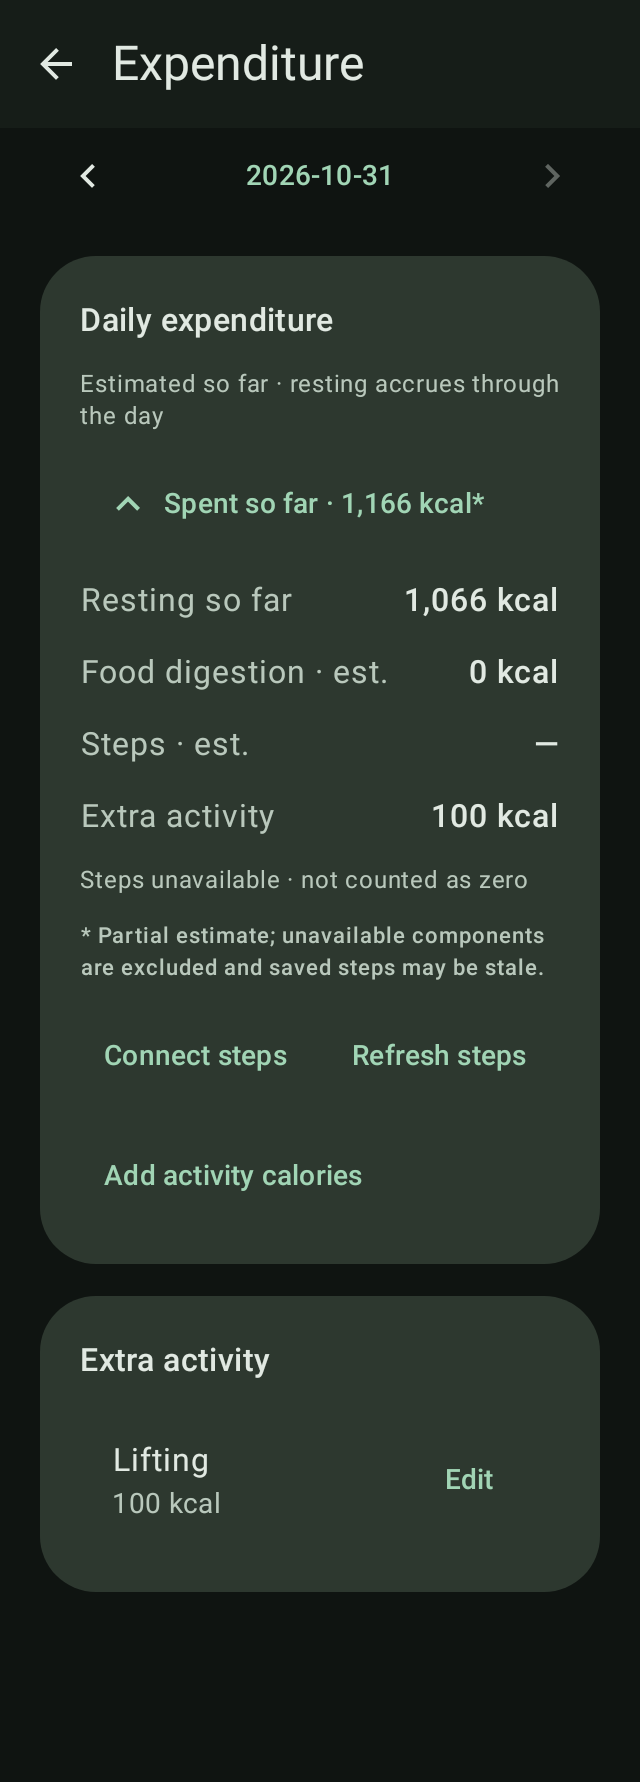
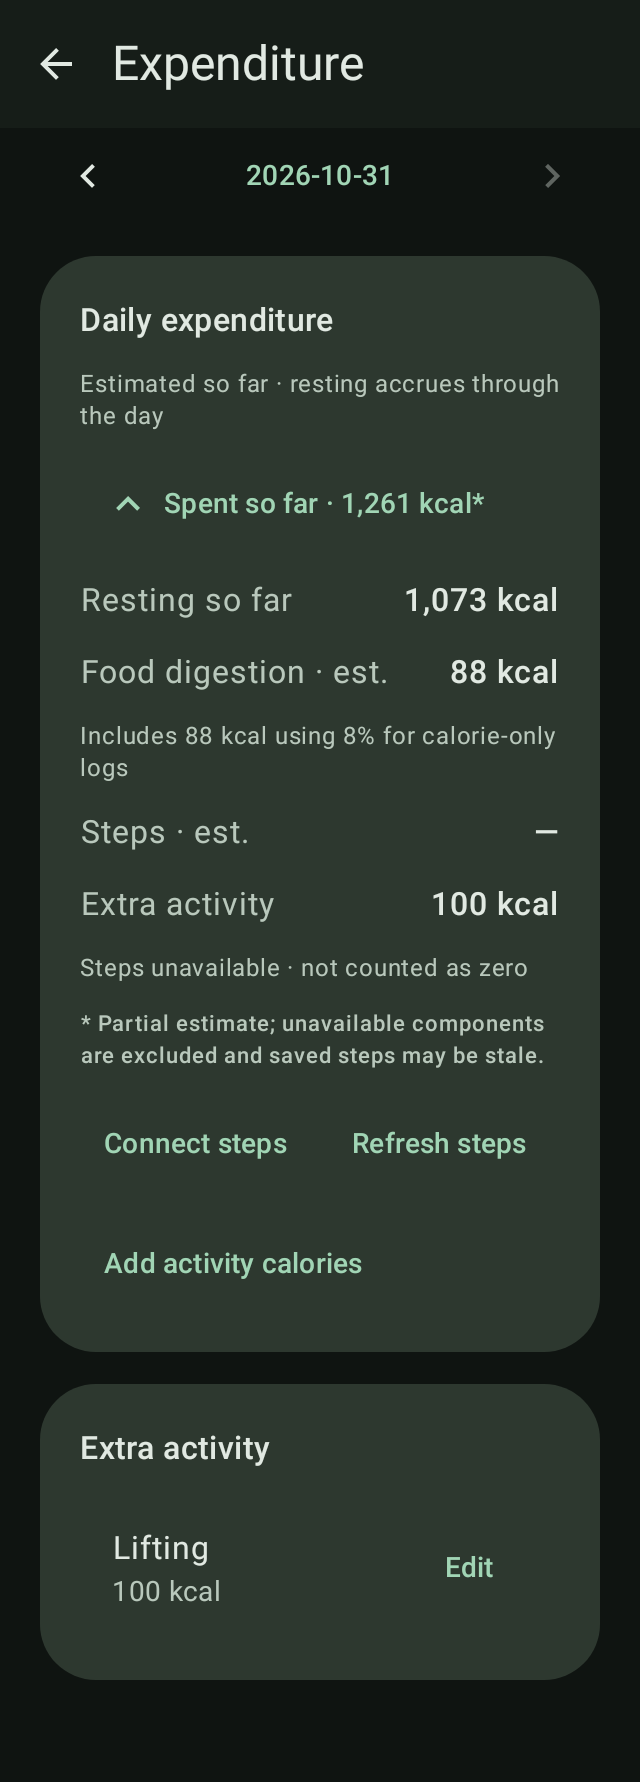
Use eight-percent digestion estimate for calorie-only logs
Apply the fallback per calorie-only entry, separately from macro-based TEF. Keep unknown nutrition unknown and label the fallback in the expenditure breakdown. Preserve food calories and known-macro calculations, including label-rounding mismatches. Verify edits, backdating and deletion recalculate without duplicate charges; all 103 tests, lint and APK checks pass.

diff --git a/app/src/test/java/dev/rohit/labelaudit/ExpenditureIntegrationTest.kt b/app/src/test/java/dev/rohit/labelaudit/ExpenditureIntegrationTest.kt
@@ -245,6 +245,63 @@ class ExpenditureIntegrationTest {
     }
 
     @Test
+    fun quickCaloriesUseEightPercentAndEditsMoveOrRemoveOnlyTheirFallback() {
+        val food =
+            JSONObject()
+                .put("id", "food")
+                .put("name", "Label rounding example")
+                .put("unit", "g")
+                .put("basis", 100)
+                .put("kcal", 15)
+                .put("protein", 4)
+                .put("carbs", 0)
+                .put("fat", 0)
+        val direct =
+            JSONObject()
+                .put("id", "direct")
+                .put("name", "Known macros")
+                .put("available", time(day, 9))
+                .put("completed", time(day, 9))
+                .put("share", 1)
+                .put(
+                    "ingredients",
+                    JSONArray().put(JSONObject().put("food", food).put("quantity", 100)),
+                )
+        r.db.save("direct", direct)
+        val quick = JSONObject().put("id", "quick").put("time", time(day, 10)).put("kcal", 1100)
+        r.db.save("calorie", quick)
+        val now = time(day, 12)
+        val first = r.dailyExpenditure(day, now)
+        assertEquals(88.0, first.fallbackDigestion, 1e-9)
+        assertEquals(92.0, first.digestion, 1e-9) // 4 from protein, 88 only from quick calories
+        assertFalse(first.nutritionIncomplete)
+        val intake = r.nutrientTotals(r.midnight(day), now, now)
+        assertEquals(1115.0, intake.values[0], 0.0)
+        assertEquals(4.0, intake.values[1], 0.0)
+        assertTrue(intake.missing[1]) // fallback never invents protein grams
+        r.db.save("calorie", quick.put("kcal", 2200))
+        assertEquals(180.0, r.dailyExpenditure(day, now).digestion, 1e-9)
+        r.db.save("calorie", quick.put("time", time(day.plusDays(1), 10)))
+        val later = time(day.plusDays(1), 12)
+        assertEquals(4.0, r.dailyExpenditure(day, later).digestion, 1e-9)
+        assertEquals(176.0, r.dailyExpenditure(day.plusDays(1), later).digestion, 1e-9)
+        r.db.delete(quick)
+        assertEquals(0.0, r.dailyExpenditure(day.plusDays(1), later).digestion, 0.0)
+        assertEquals(1, r.db.list("direct").size)
+        assertEquals(
+            15.0,
+            r.db
+                .list("direct")
+                .single()
+                .getJSONArray("ingredients")
+                .getJSONObject(0)
+                .getJSONObject("food")
+                .getDouble("kcal"),
+            0.0,
+        )
+    }
+
+    @Test
     fun versionThreeMigrationPreservesOldTotalRatesAndFood() {
         val context = ApplicationProvider.getApplicationContext<Context>()
         val oldDate = LocalDate.now(r.zone).minusDays(1)

diff --git a/app/src/test/java/dev/rohit/labelaudit/ComposeFlowTest.kt b/app/src/test/java/dev/rohit/labelaudit/ComposeFlowTest.kt
@@ -168,9 +168,19 @@ class ComposeFlowTest {
     fun expenditureActivityCanBeAddedEditedAndDeletedWithMaterialControls() {
         ui.runOnIdle {
             val v = androidx.lifecycle.ViewModelProvider(ui.activity)[TrackerViewModel::class.java]
+            v.repo.db.save(
+                "calorie",
+                org.json
+                    .JSONObject()
+                    .put("id", "quick-tef")
+                    .put("time", System.currentTimeMillis() - 60000)
+                    .put("kcal", 1100),
+            )
+            v.refresh()
             v.openEnergy()
         }
         ui.onNodeWithText("Resting so far").assertIsDisplayed()
+        ui.onNodeWithText("Includes 88 kcal using 8% for calorie-only logs").assertIsDisplayed()
         ui.onNodeWithText("Add activity calories").performScrollTo().performClick()
         ui.onNodeWithText("Additional kcal").performTextInput("100")
         ui.onNodeWithText("Description (optional)").performTextInput("Lifting")

diff --git a/app/src/main/java/dev/rohit/labelaudit/ui/ExpenditureScreen.kt b/app/src/main/java/dev/rohit/labelaudit/ui/ExpenditureScreen.kt
@@ -45,6 +45,12 @@ fun ExpenditureBreakdown(
                 if (e.nutritionIncomplete && e.digestion == 0.0) "—"
                 else "${if(e.nutritionIncomplete) "≥" else ""}${kcal(e.digestion)} kcal",
             )
+            if (e.fallbackDigestion > 0)
+                Text(
+                    "Includes ${kcal(e.fallbackDigestion)} kcal using 8% for calorie-only logs",
+                    style = MaterialTheme.typography.bodySmall,
+                    color = MaterialTheme.colorScheme.onSurfaceVariant,
+                )
             InfoRow("Steps · est.", e.steps?.let { "${kcal(it)} kcal" } ?: "—")
             InfoRow("Extra activity", "${kcal(e.extra)} kcal")
             val cache = r.db.stepCache(date.toString(), r.zone.id)

diff --git a/app/src/main/java/dev/rohit/labelaudit/TrackerRepository.java b/app/src/main/java/dev/rohit/labelaudit/TrackerRepository.java
@@ -137,6 +137,11 @@ public final class TrackerRepository {
   }
 
   public Nutrients.Total nutrientTotals(long from, long to, long now) throws Exception {
+    return nutrientTotals(from, to, now, true);
+  }
+
+  private Nutrients.Total nutrientTotals(long from, long to, long now, boolean includeCalorieOnly)
+      throws Exception {
     Nutrients.Total result = new Nutrients.Total();
     for (String kind : new String[] {"batch", "direct"})
       for (JSONObject batch : db.list(kind)) {
@@ -150,15 +155,16 @@ public final class TrackerRepository {
               fraction * item.getDouble("quantity") / food.getDouble("basis"));
         }
       }
-    for (JSONObject entry : db.list("calorie")) {
-      long t = entry.getLong("time");
-      if (t >= from && t < Math.min(to, now)) {
-        double[] n = new double[Nutrients.KEYS.length];
-        Arrays.fill(n, Double.NaN);
-        n[0] = entry.getDouble("kcal");
-        result.add(n, 1);
+    if (includeCalorieOnly)
+      for (JSONObject entry : db.list("calorie")) {
+        long t = entry.getLong("time");
+        if (t >= from && t < Math.min(to, now)) {
+          double[] n = new double[Nutrients.KEYS.length];
+          Arrays.fill(n, Double.NaN);
+          n[0] = entry.getDouble("kcal");
+          result.add(n, 1);
+        }
       }
-    }
     return result;
   }
 
@@ -245,7 +251,19 @@ public final class TrackerRepository {
                 && cache.optLong("through", 0) < midnight(date.plusDays(1)));
     double accruedResting =
         restingRate(date) * (to - from) / (double) (midnight(date.plusDays(1)) - from);
+    double calorieOnlyKcal = 0;
+    for (JSONObject entry : db.list("calorie")) {
+      long time = entry.getLong("time");
+      if (time >= from && time < to) calorieOnlyKcal += entry.getDouble("kcal");
+    }
+    // Each calorie-only record uses the fallback INSTEAD of macro TEF. The public intake
+    // nutrient totals still mark its macros unknown; no fabricated grams are persisted.
     return DailyExpenditure.calculate(
-        accruedResting, nutrientTotals(from, to, now), steps, extraActivity(date), stale);
+        accruedResting,
+        nutrientTotals(from, to, now, false),
+        steps,
+        extraActivity(date),
+        stale,
+        calorieOnlyKcal);
   }
 }

diff --git a/app/src/main/java/dev/rohit/labelaudit/DailyExpenditure.java b/app/src/main/java/dev/rohit/labelaudit/DailyExpenditure.java
@@ -6,7 +6,7 @@ package dev.rohit.labelaudit;
  */
 public final class DailyExpenditure {
   public static final class Estimate {
-    public final double resting, digestion, extra, total;
+    public final double resting, digestion, fallbackDigestion, extra, total;
     public final Double steps;
     public final boolean nutritionIncomplete, stepsIncomplete, legacy;
 
@@ -18,6 +18,19 @@ public final class DailyExpenditure {
         boolean nutritionIncomplete,
         boolean stepsIncomplete,
         boolean legacy) {
+      this(resting, digestion, steps, extra, nutritionIncomplete, stepsIncomplete, legacy, 0);
+    }
+
+    public Estimate(
+        double resting,
+        double digestion,
+        Double steps,
+        double extra,
+        boolean nutritionIncomplete,
+        boolean stepsIncomplete,
+        boolean legacy,
+        double fallbackDigestion) {
+      this.fallbackDigestion = fallbackDigestion;
       this.resting = resting;
       this.digestion = digestion;
       this.steps = steps;
@@ -35,17 +48,31 @@ public final class DailyExpenditure {
 
   public static Estimate calculate(
       double resting, Nutrients.Total food, Long steps, double extra, boolean stale) {
+    return calculate(resting, food, steps, extra, stale, 0);
+  }
+
+  public static Estimate calculate(
+      double resting,
+      Nutrients.Total food,
+      Long steps,
+      double extra,
+      boolean stale,
+      double calorieOnlyKcal) {
+    if (!Double.isFinite(calorieOnlyKcal) || calorieOnlyKcal < 0)
+      throw new IllegalArgumentException("Invalid calorie-only energy");
+    double fallback = calorieOnlyKcal * ExpenditureCoefficients.CALORIE_ONLY_TEF_FACTOR;
     double tef =
         food.values[1] * 4 * ExpenditureCoefficients.PROTEIN_TEF_FACTOR
             + food.values[2] * 4 * ExpenditureCoefficients.CARBOHYDRATE_TEF_FACTOR
             + food.values[3] * 9 * ExpenditureCoefficients.FAT_TEF_FACTOR;
     return new Estimate(
         resting,
-        tef,
+        tef + fallback,
         steps == null ? null : steps / 1000.0 * ExpenditureCoefficients.KCAL_PER_1000_STEPS,
         extra,
         food.missing[1] || food.missing[2] || food.missing[3],
         steps == null || stale,
-        false);
+        false,
+        fallback);
   }
 }

diff --git a/app/src/test/java/dev/rohit/labelaudit/DailyExpenditureTest.java b/app/src/test/java/dev/rohit/labelaudit/DailyExpenditureTest.java
@@ -47,4 +47,21 @@ public class DailyExpenditureTest {
     assertEquals(180, e.steps, 0);
     assertTrue(e.stepsIncomplete);
   }
+
+  @Test
+  public void calorieOnlyFallbackIsSeparateFromMacroDigestion() {
+    Nutrients.Total food = new Nutrients.Total();
+    double[] values = new double[Nutrients.KEYS.length];
+    values[0] = 200;
+    values[1] = 25;
+    values[2] = 10;
+    values[3] = 2;
+    food.add(values, 1);
+    DailyExpenditure.Estimate e = DailyExpenditure.calculate(883, food, 0L, 0, false, 1100);
+    assertEquals(88, e.fallbackDigestion, 1e-9);
+    assertEquals(116.36, e.digestion, 1e-9);
+    assertEquals(999.36, e.total, 1e-9);
+    assertFalse(e.nutritionIncomplete);
+    assertEquals(200, food.values[0], 0);
+  }
 }

diff --git a/app/src/main/java/dev/rohit/labelaudit/ExpenditureCoefficients.java b/app/src/main/java/dev/rohit/labelaudit/ExpenditureCoefficients.java
@@ -12,5 +12,7 @@ public final class ExpenditureCoefficients {
   public static final double PROTEIN_TEF_FACTOR = 0.25;
   public static final double CARBOHYDRATE_TEF_FACTOR = 0.075;
   public static final double FAT_TEF_FACTOR = 0.02;
+  // User-chosen fallback for calorie-only logs; never added on top of macro-derived TEF.
+  public static final double CALORIE_ONLY_TEF_FACTOR = 0.08;
   public static final double KCAL_PER_1000_STEPS = 30.0;
 }

diff --git a/README.md b/README.md
@@ -100,8 +100,15 @@ Digestion uses the existing per-day macro allocations without reducing food calo
 These fixed coefficients are approximations within the ranges discussed by
 [Westerterp (2004)](https://pmc.ncbi.nlm.nih.gov/articles/PMC524030/), not individual
 measurements. They live in `ExpenditureCoefficients.java`, together with the requested
-30 kcal per 1,000 steps, and are not configurable in Settings. Missing macros leave
-TEF incomplete (a known minimum when some macros are available), never assumed zero.
+30 kcal per 1,000 steps and a user-chosen 8% digestion fallback for calorie-only logs;
+none are configurable in Settings. A 1,100 kcal quick log adds 88 kcal of estimated
+digestion. The fallback applies only to that entry instead of macro-based TEF, never
+on top of it or to the whole day's calories. Its protein/carbs/fat remain unknown in
+nutrition summaries. Foods with saved macros retain the macro calculation even if
+label calories differ slightly from 4/4/9 arithmetic. Any unresolved missing macros
+outside calorie-only entries still leave digestion incomplete. The breakdown labels
+the fallback explicitly. Changing, backdating or deleting a quick log recalculates
+only its day's fallback; food calories are never changed.
 
 Steps use AndroidX Health Connect 1.1.0. Only READ_STEPS is requested, in the foreground;
 no writes, raw-record sums, custom counter, active-energy import or background permission.
